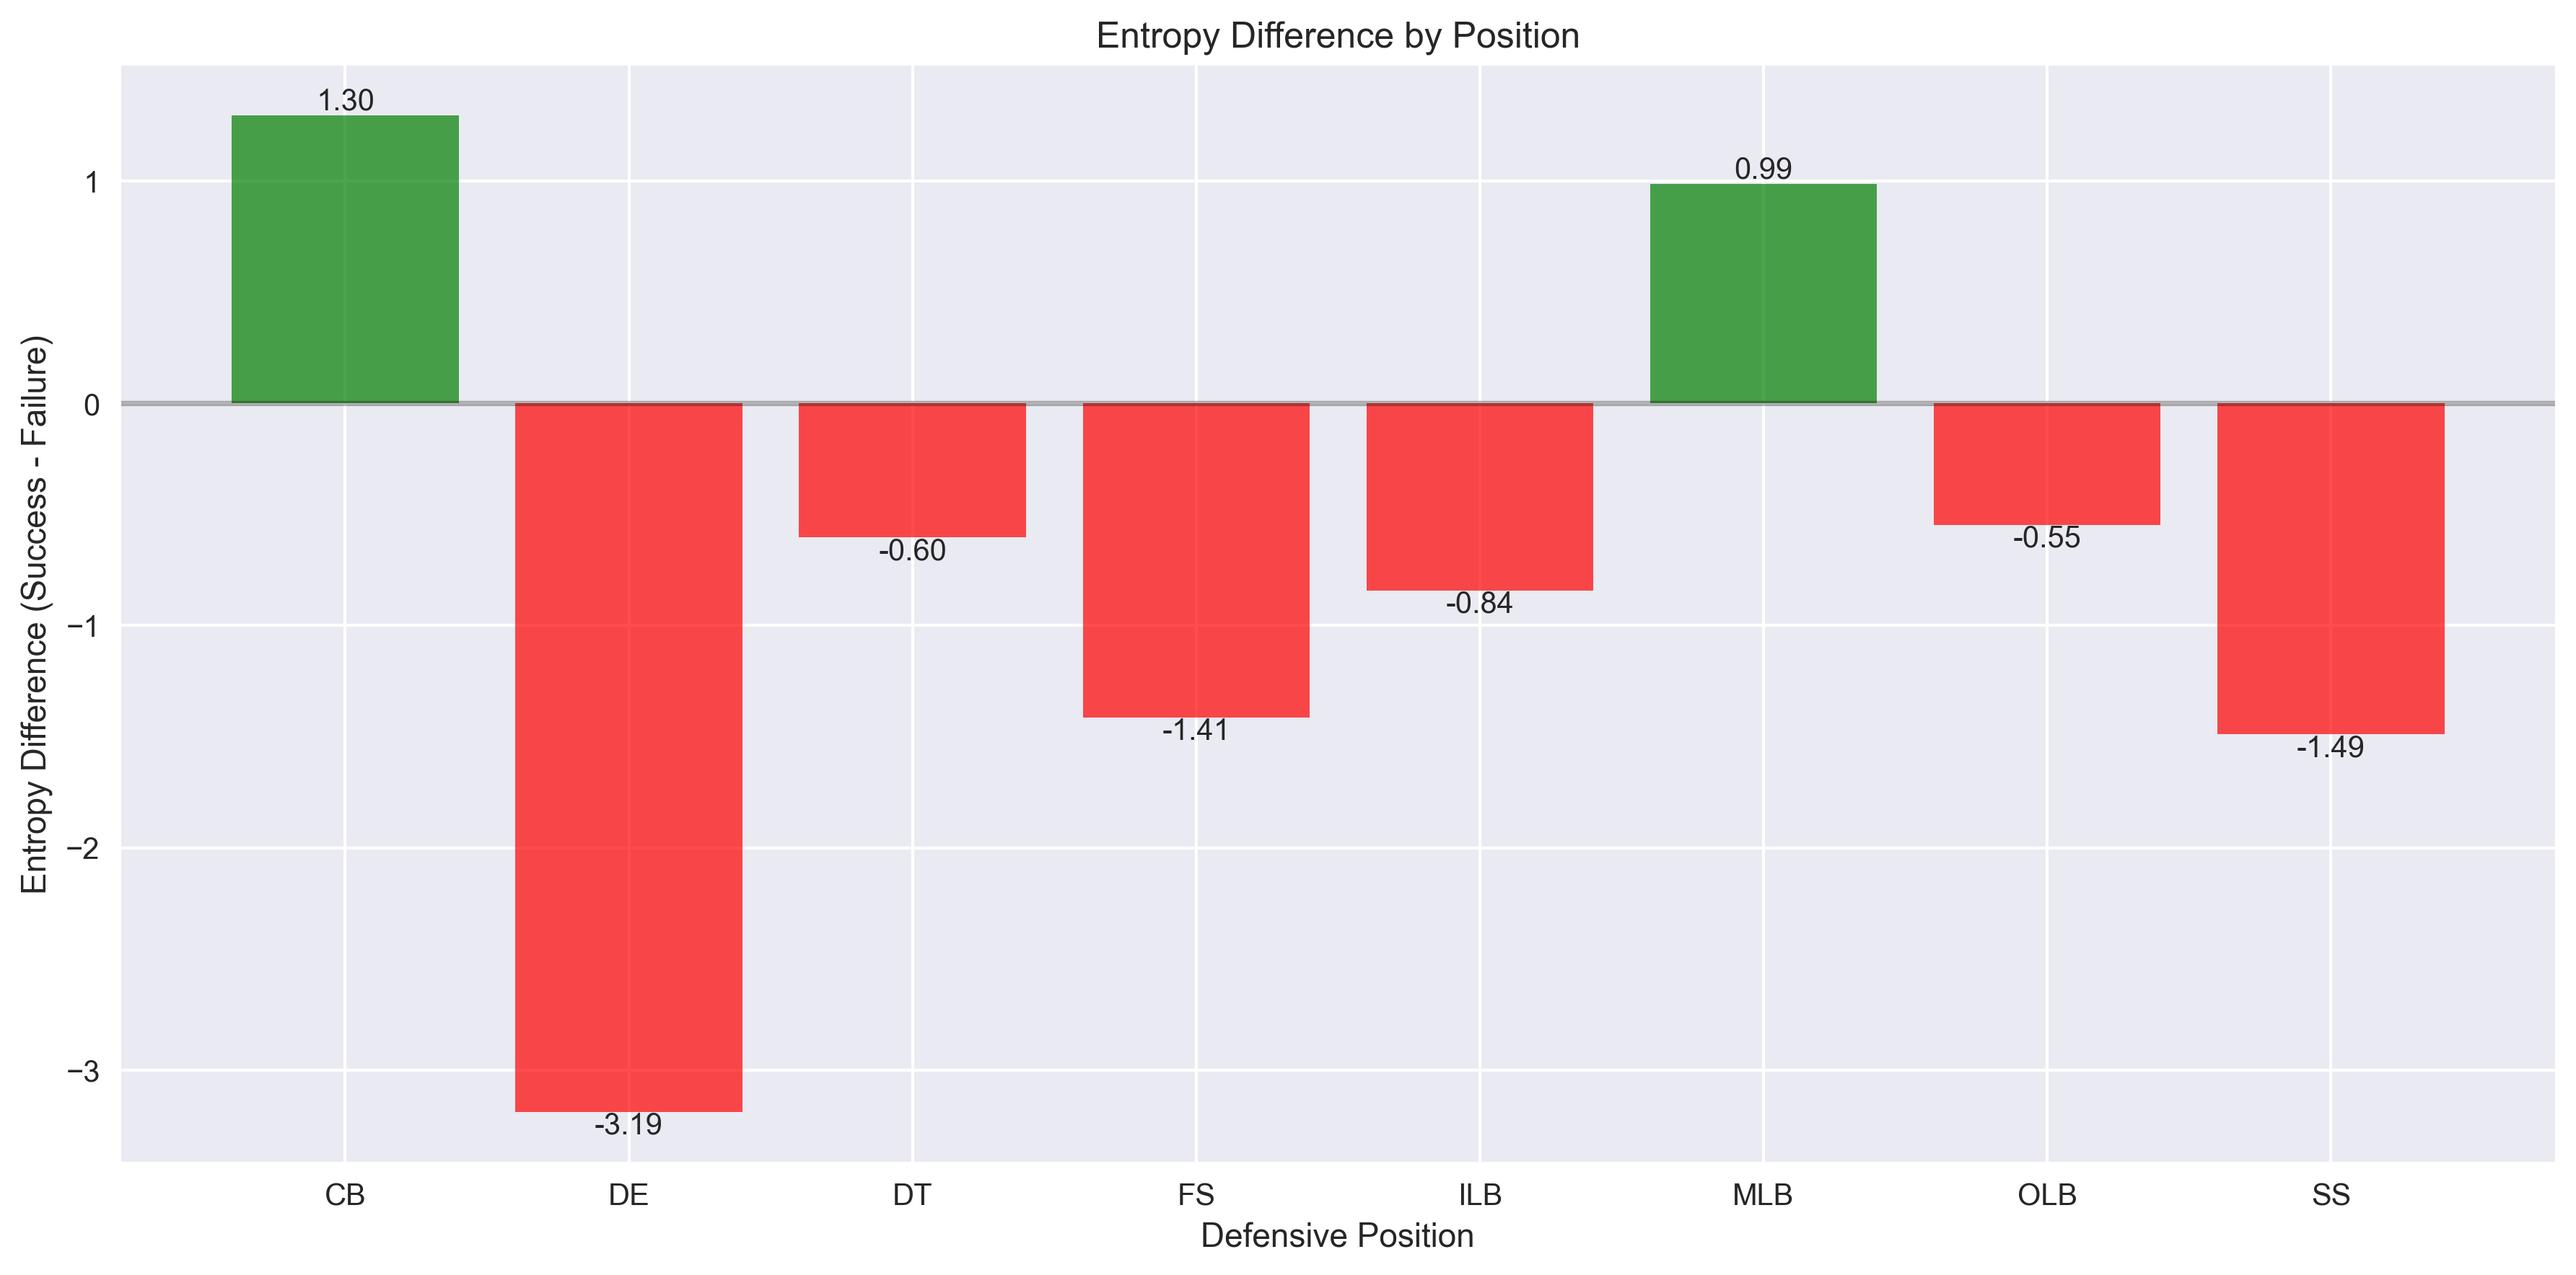
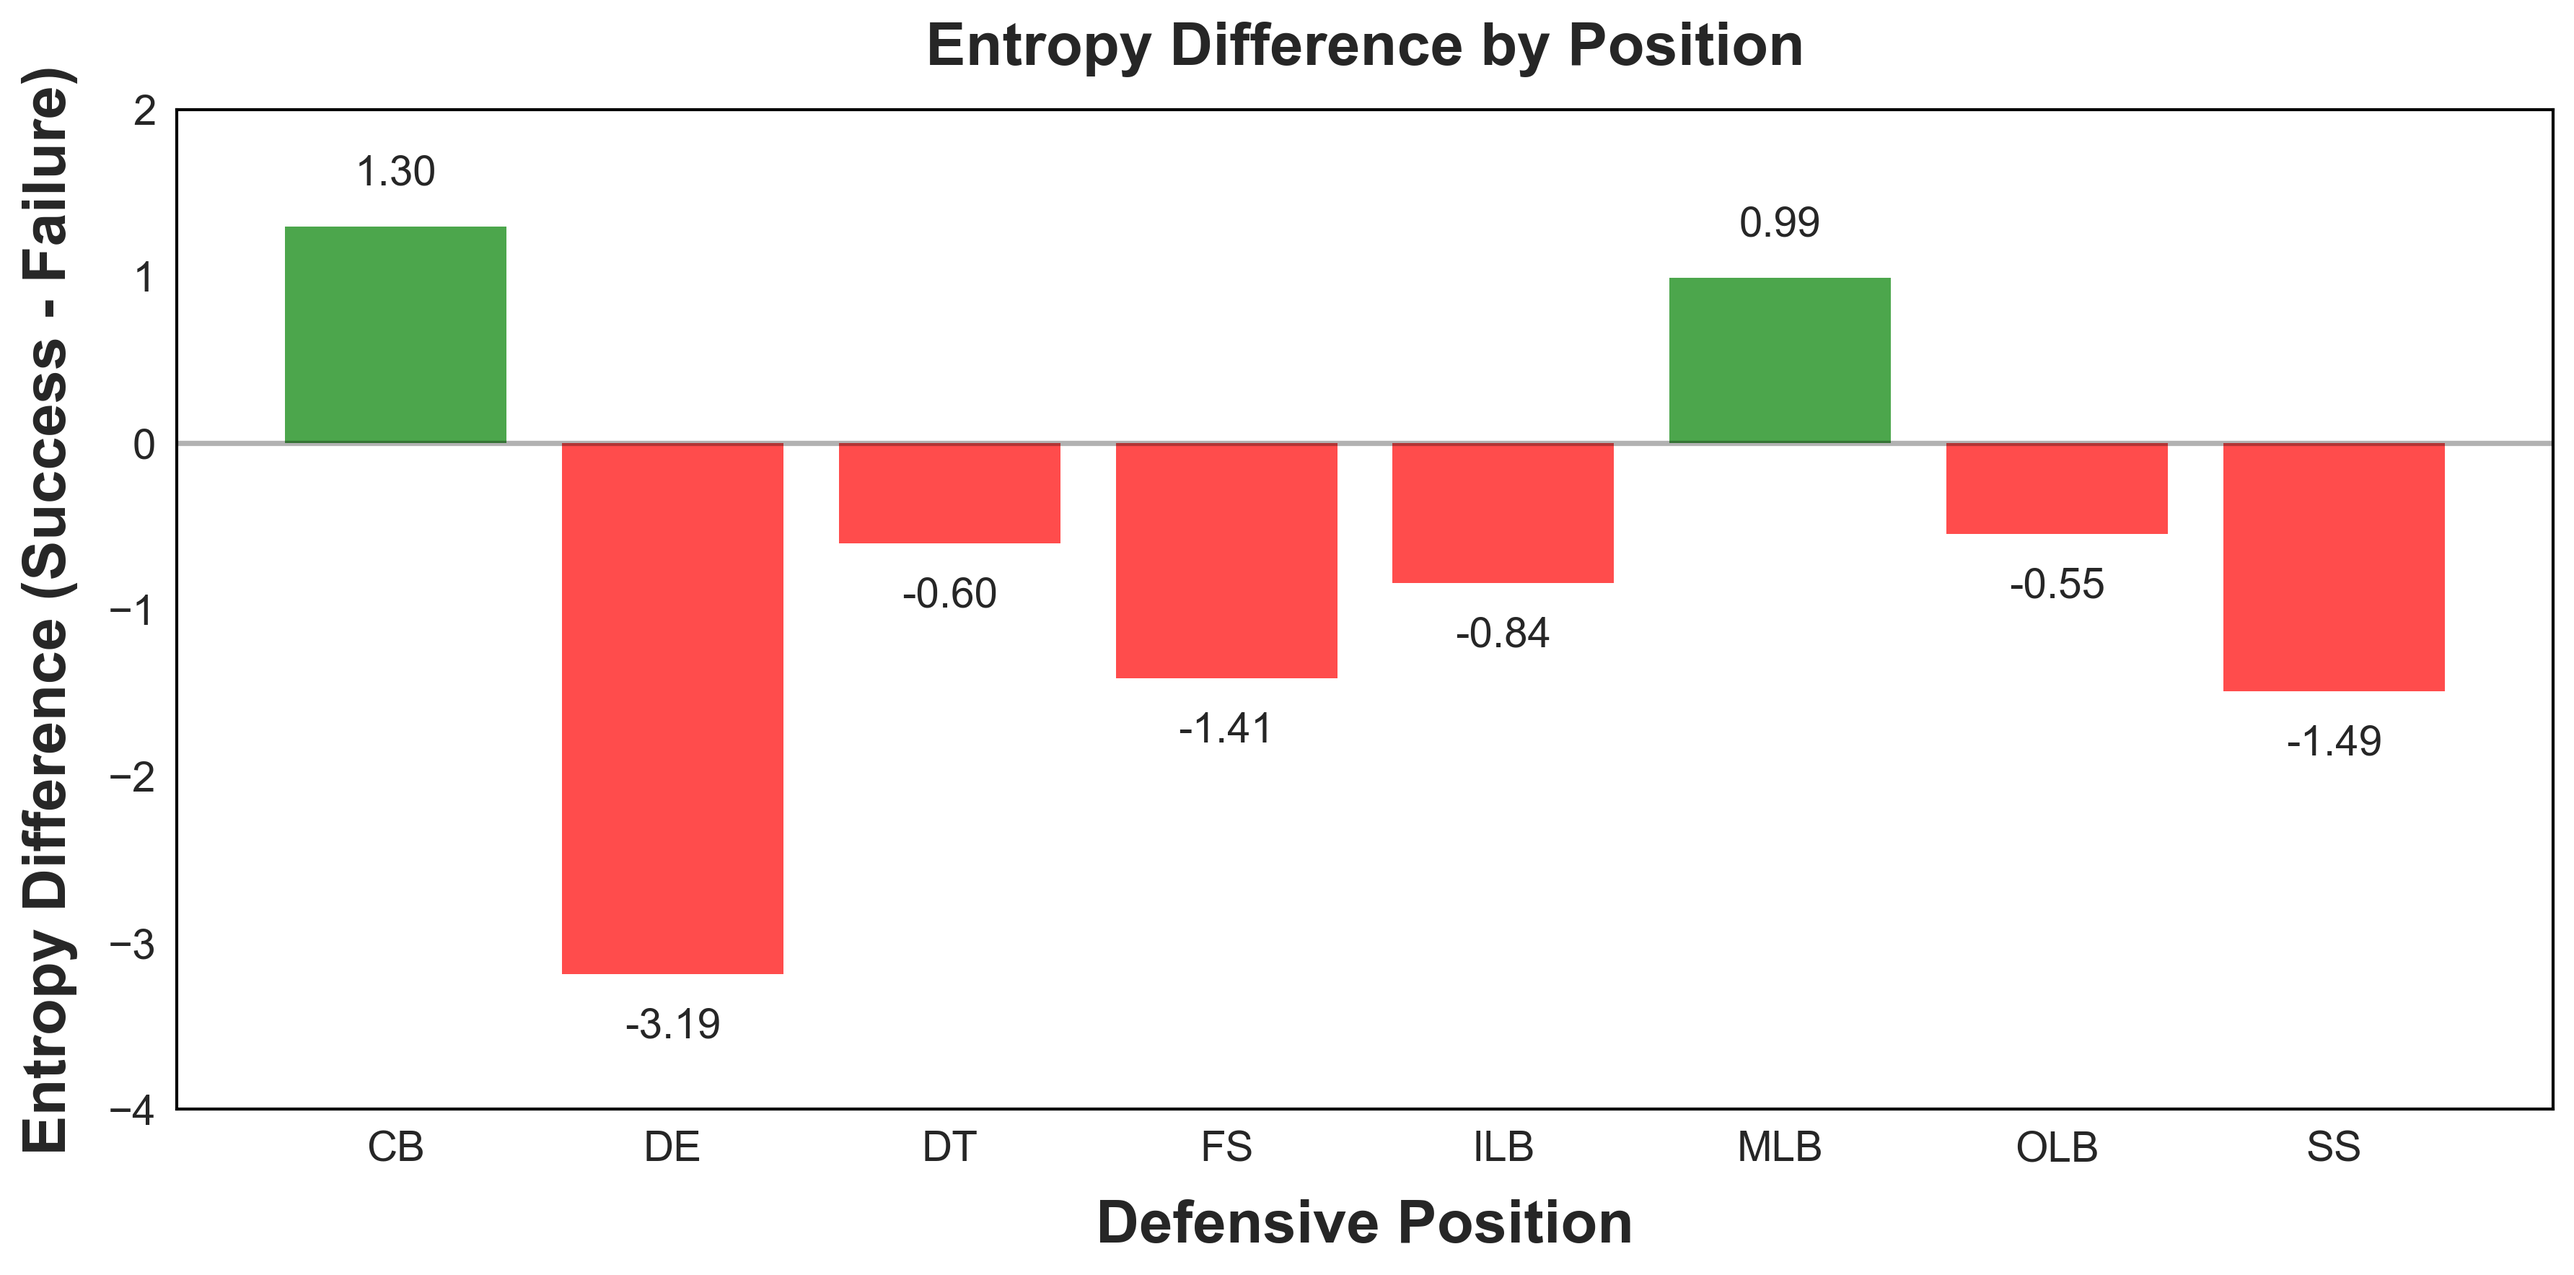
notebook additions 1

diff --git a/analyze_plays.py b/analyze_plays.py
@@ -66,14 +66,19 @@ try:
     red_colors = ['#c0392b', '#e74c3c', '#ec7063', '#f1948a', '#f5b7b1', '#fadbd8', '#fdedec']
     
     # Create figure with subplots
-    fig = plt.figure(figsize=(14, 24))
+    fig = plt.figure(figsize=(16, 28))  # Increased height from 24 to 28
     
     # Add title explaining the filtering
-    fig.suptitle(f'Formation and Coverage Analysis\nBased on {total_plays:,} plays with valid pre-snap timing (1-40 seconds)',
-                 y=0.95, fontsize=22, weight='bold')
+    fig.text(0.5, 0.95, 'Formation and Coverage Analysis', 
+             fontsize=24, weight='bold', ha='center', va='bottom')
+    fig.text(0.5, 0.94, f'Based on {total_plays:,} plays with valid pre-snap timing (1-40 seconds)',
+             fontsize=22, ha='center', va='top')
+    
+    # Create subplots with specific spacing
+    gs = plt.GridSpec(4, 1, height_ratios=[1, 0.25, 1, 0.25], hspace=0.2)  # Reduced legend space ratio from 0.3 to 0.25
     
     # 1. Offensive Formation and Receiver Alignment Chart
-    plt.subplot(2, 1, 1)
+    ax1 = plt.subplot(gs[0])  # First row for graph
     
     # Create stacked bar chart
     bottom = np.zeros(len(off_cross))
@@ -104,18 +109,21 @@ try:
         plt.text(i, bottom[i] + 50, f'Total: {int(total):,}\n({percentage:.0f}%)',
                 ha='center', va='bottom', fontsize=12, weight='bold')
     
-    plt.title('Offensive Formation and Receiver Alignment Distribution', pad=20, size=24, weight='bold')
+    plt.title('Offensive Formation and Receiver Alignment Distribution', pad=15, size=24, weight='bold')
     plt.xlabel('Offensive Formation', size=24, weight='bold')
     plt.ylabel('Number of Plays', size=24, weight='bold')
     plt.xticks(rotation=45, ha='right', fontsize=14)
     plt.yticks(fontsize=14)
-    plt.legend(title='Receiver Alignment', bbox_to_anchor=(0.5, -0.45), loc='upper center',
-              title_fontsize=16, fontsize=14, ncol=5)
     plt.grid(axis='y', linestyle='--', alpha=0.7)
-    plt.ylim(0, 9000)  # Set y-axis limit to 9000 plays
+    plt.ylim(0, 9000)
+    
+    # Legend for first plot
+    plt.subplot(gs[1]).set_visible(False)  # Space for first legend
+    ax1.legend(title='Receiver Alignment', bbox_to_anchor=(0.5, -0.2), loc='upper center',
+              title_fontsize=16, fontsize=14, ncol=5)
     
     # 2. Defensive Coverage and Man/Zone Chart
-    plt.subplot(2, 1, 2)
+    ax2 = plt.subplot(gs[2])  # Third row for graph
     
     # Create vertical stacked bar chart
     bottom = np.zeros(len(def_cross))
@@ -143,19 +151,23 @@ try:
         plt.text(i, bottom[i] + 50, f'Total: {total:,}\n({percentage:.0f}%)',
                 ha='center', va='bottom', fontsize=12, weight='bold')
     
-    plt.title('Defensive Coverage and Man/Zone Distribution', pad=20, size=24, weight='bold')
+    plt.title('Defensive Coverage and Man/Zone Distribution', pad=15, size=24, weight='bold')
     plt.xlabel('Coverage Type', size=24, weight='bold')
     plt.ylabel('Number of Plays', size=24, weight='bold')
     plt.xticks(rotation=45, ha='right', fontsize=14)
     plt.yticks(fontsize=14)
-    plt.legend(title='Coverage Scheme', bbox_to_anchor=(0.5, -0.45), loc='upper center',
-              title_fontsize=16, fontsize=14, ncol=4)
     plt.grid(axis='y', linestyle='--', alpha=0.7)
-    plt.ylim(0, 9000)  # Set y-axis limit to 9000 plays
+    plt.ylim(0, 9000)
+    
+    # Legend for second plot
+    plt.subplot(gs[3]).set_visible(False)  # Space for second legend
+    ax2.legend(title='Coverage Scheme', bbox_to_anchor=(0.5, -0.25), loc='upper center',
+              title_fontsize=16, fontsize=14, ncol=4)
     
     # Adjust layout and save
-    plt.tight_layout(pad=7.0, rect=[0, 0, 1, 0.95])
-    plt.savefig('formation_coverage_analysis.png', dpi=300, bbox_inches='tight', pad_inches=0.8)
+    plt.tight_layout(pad=2.0, rect=[0.05, 0.02, 0.95, 0.98])
+    plt.subplots_adjust(hspace=0.4)  # Adjust space between subplots
+    plt.savefig('formation_coverage_analysis.png', dpi=300, bbox_inches='tight', pad_inches=0.3)
     print("\nVisualization saved as 'formation_coverage_analysis.png'")
     
     # Print text summaries

diff --git a/visualize_entropy_results.py b/visualize_entropy_results.py
@@ -78,8 +78,15 @@ def create_sample_size_plot():
     plt.close()
 
 def create_entropy_difference_plot():
-    # Create figure
-    plt.figure(figsize=(12, 6))
+    # Create figure with white background
+    plt.figure(figsize=(12, 6), facecolor='white')
+    ax = plt.gca()
+    ax.set_facecolor('white')
+    
+    # Add black border
+    for spine in ax.spines.values():
+        spine.set_color('black')
+        spine.set_linewidth(1.0)
     
     # Prepare data
     positions = results_df['Position']
@@ -92,21 +99,31 @@ def create_entropy_difference_plot():
     # Add horizontal line at y=0
     plt.axhline(y=0, color='black', linestyle='-', alpha=0.3)
     
-    # Add labels and title
-    plt.xlabel('Defensive Position')
-    plt.ylabel('Entropy Difference (Success - Failure)')
-    plt.title('Entropy Difference by Position')
+    # Add labels and title with increased size and bold weight
+    plt.xlabel('Defensive Position', size=20, weight='bold', labelpad=10)
+    plt.ylabel('Entropy Difference (Success - Failure)', size=20, weight='bold', labelpad=10)
+    plt.title('Entropy Difference by Position', size=20, weight='bold', pad=15)
     
-    # Add value labels on top/bottom of bars
+    # Set tick label font sizes and remove gridlines
+    plt.xticks(fontsize=14)
+    plt.yticks(fontsize=14)
+    plt.grid(False)
+    
+    # Set y-axis limits
+    plt.ylim(-4, 2)
+    
+    # Add value labels on top/bottom of bars with increased spacing
     for bar in bars:
         height = bar.get_height()
-        plt.text(bar.get_x() + bar.get_width()/2., height,
+        y_offset = 0.2 if height >= 0 else -0.2  # Increased offset for label spacing
+        plt.text(bar.get_x() + bar.get_width()/2., height + y_offset,
                 f'{height:.2f}',
-                ha='center', va='bottom' if height >= 0 else 'top')
+                ha='center', va='bottom' if height >= 0 else 'top',
+                fontsize=14)
     
     # Save plot
     plt.tight_layout()
-    plt.savefig('entropy_difference_by_position.png', dpi=300, bbox_inches='tight')
+    plt.savefig('entropy_difference_by_position.png', dpi=300, bbox_inches='tight', facecolor='white')
     plt.close()
 
 def create_success_rate_plot():
